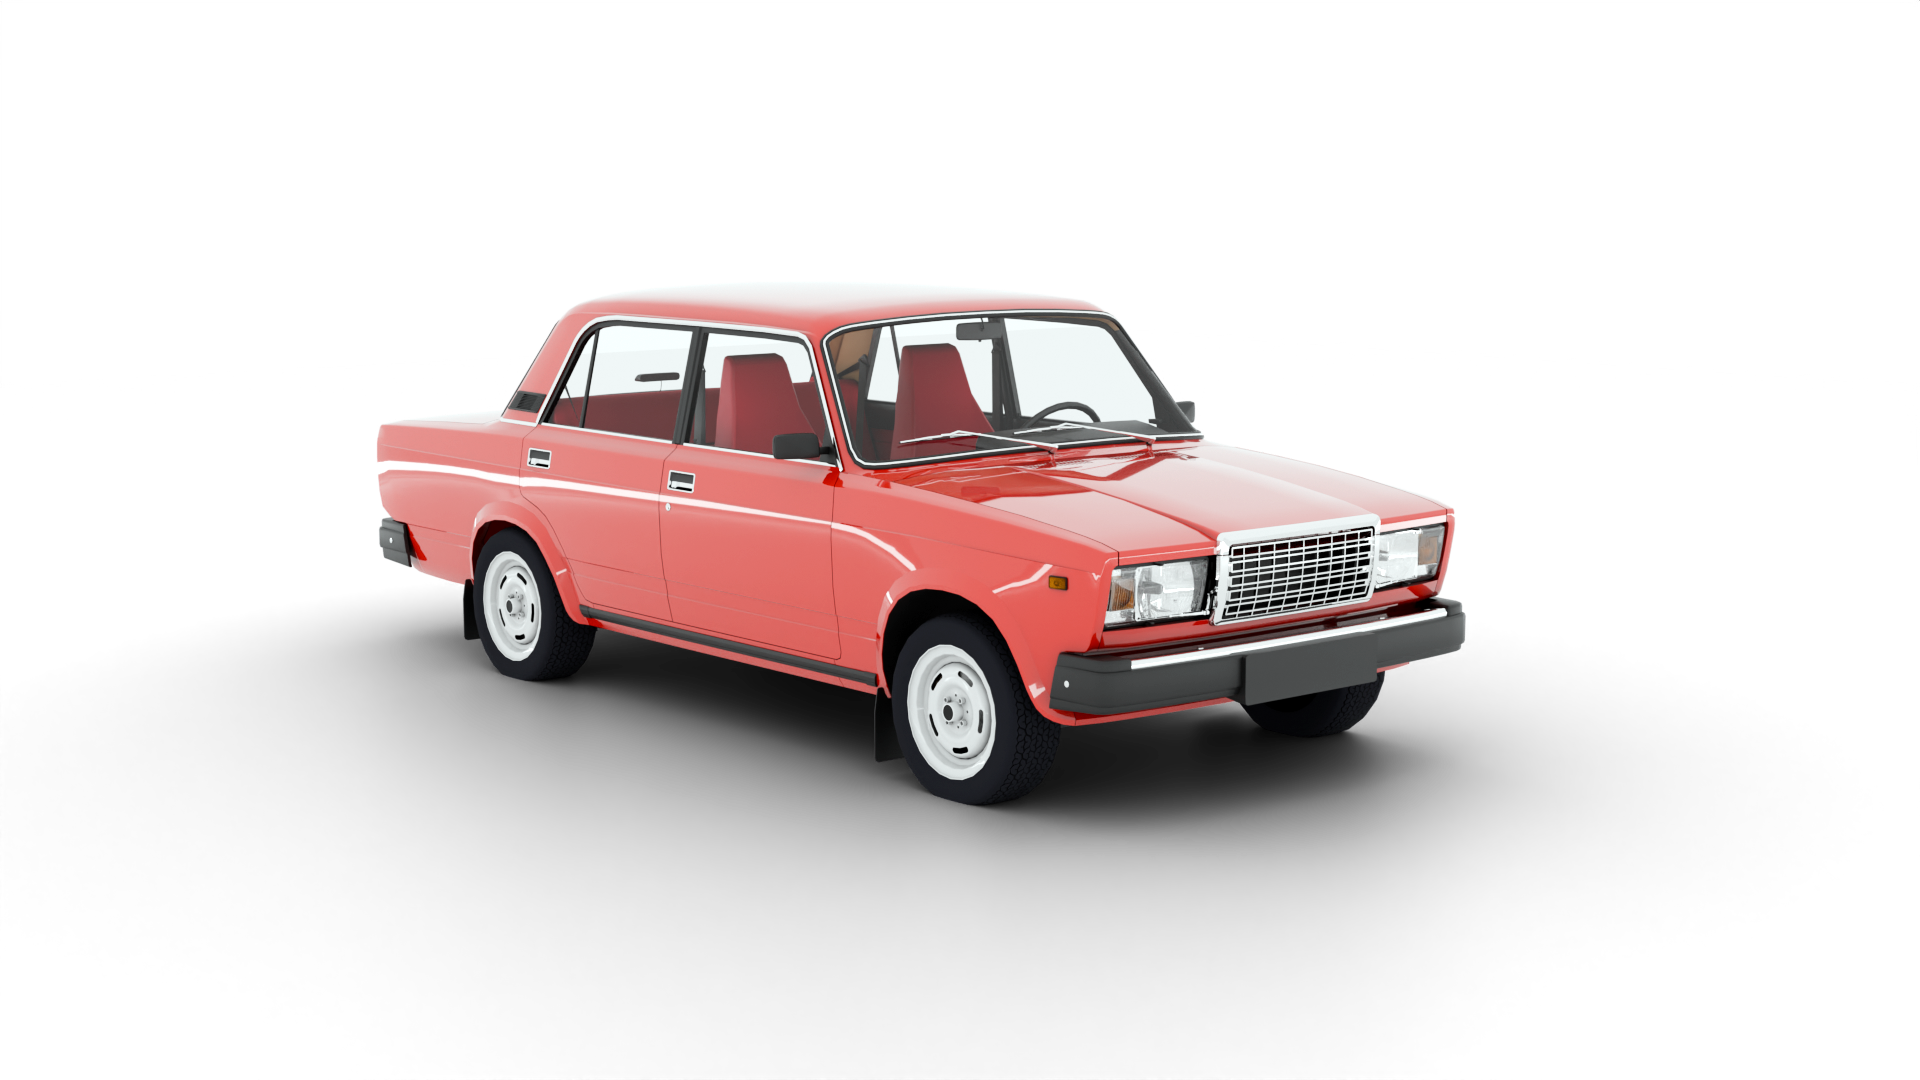
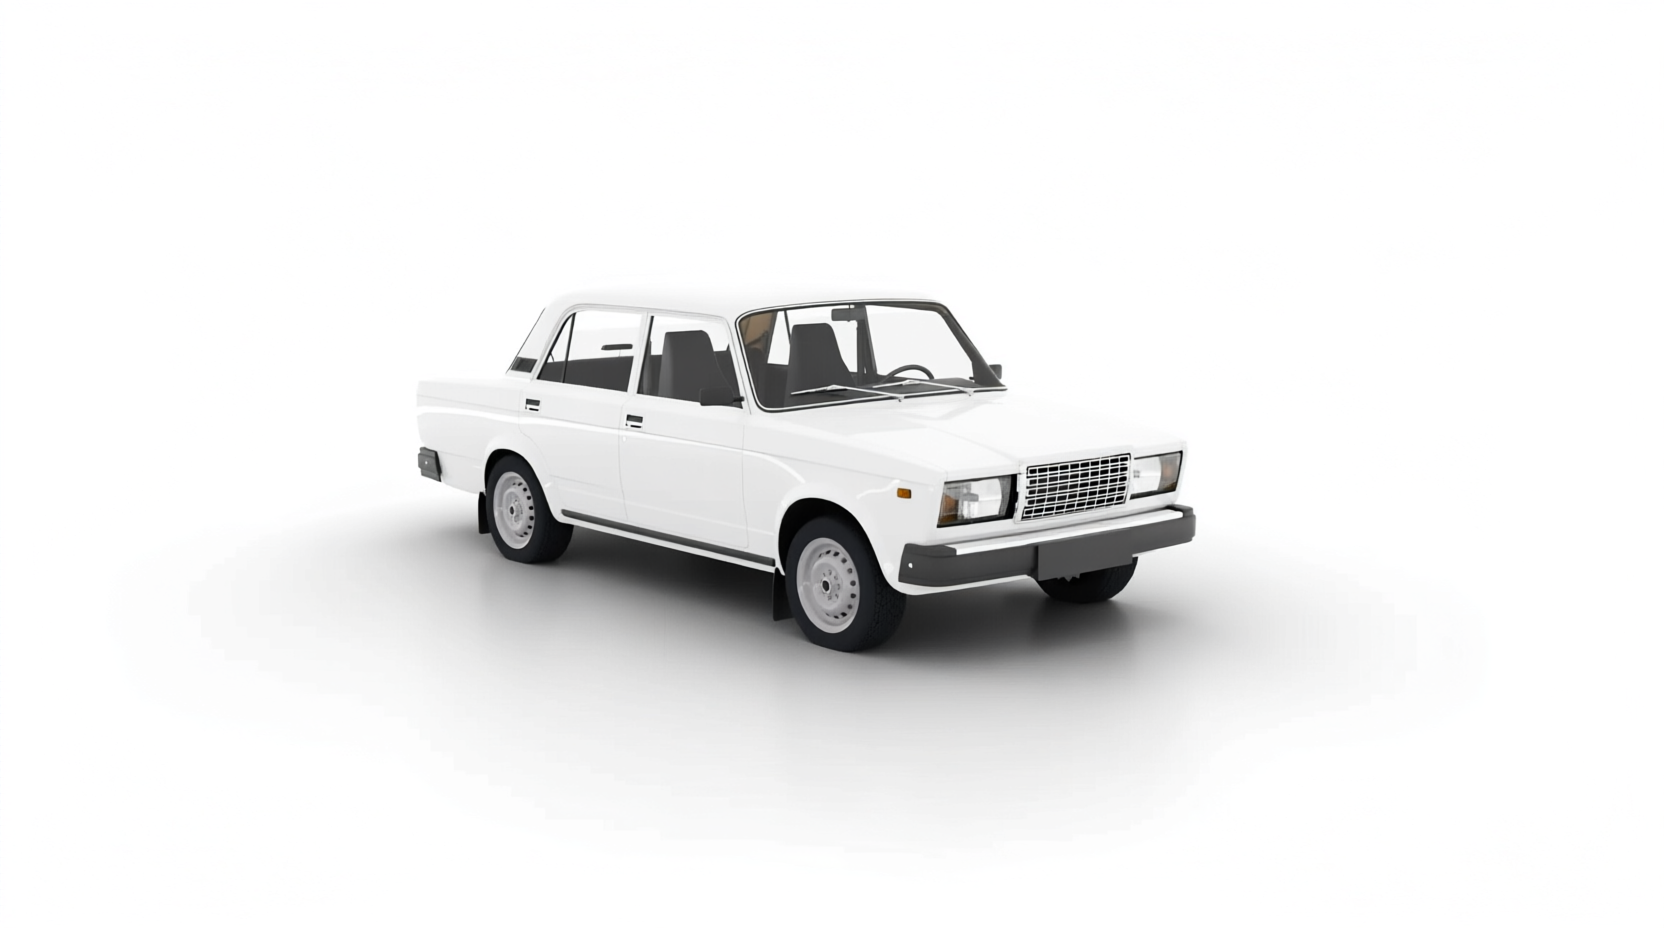
конец 2

Changed region(s): [[0.1562, 0.25, 0.8125, 0.8438]]

diff --git a/configurator.php b/configurator.php
@@ -282,7 +282,7 @@ function getColorCode($colorName) {
         'черный' => '#000000',
         'красный' => '#FF0000',
         'синий' => '#0000FF',
-        'зеленый' => '#00FF00',
+        'зелёный' => '#006e00',
         'жёлтый' => '#ffcc00',
         'серый' => '#808080',
         'серебристый' => '#C0C0C0',